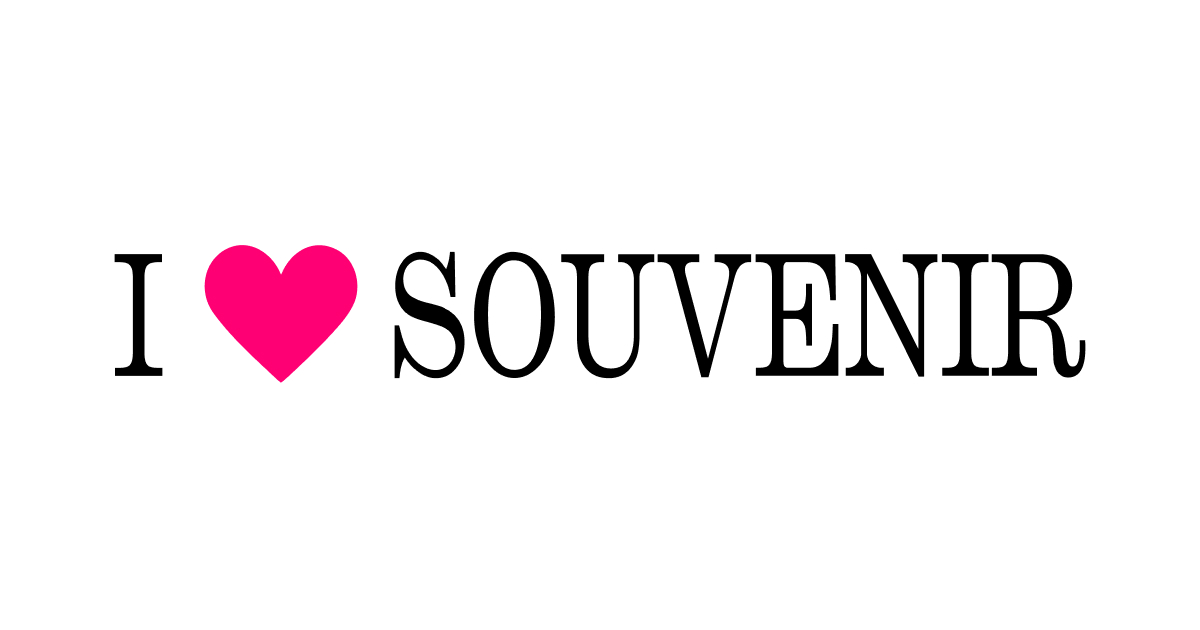
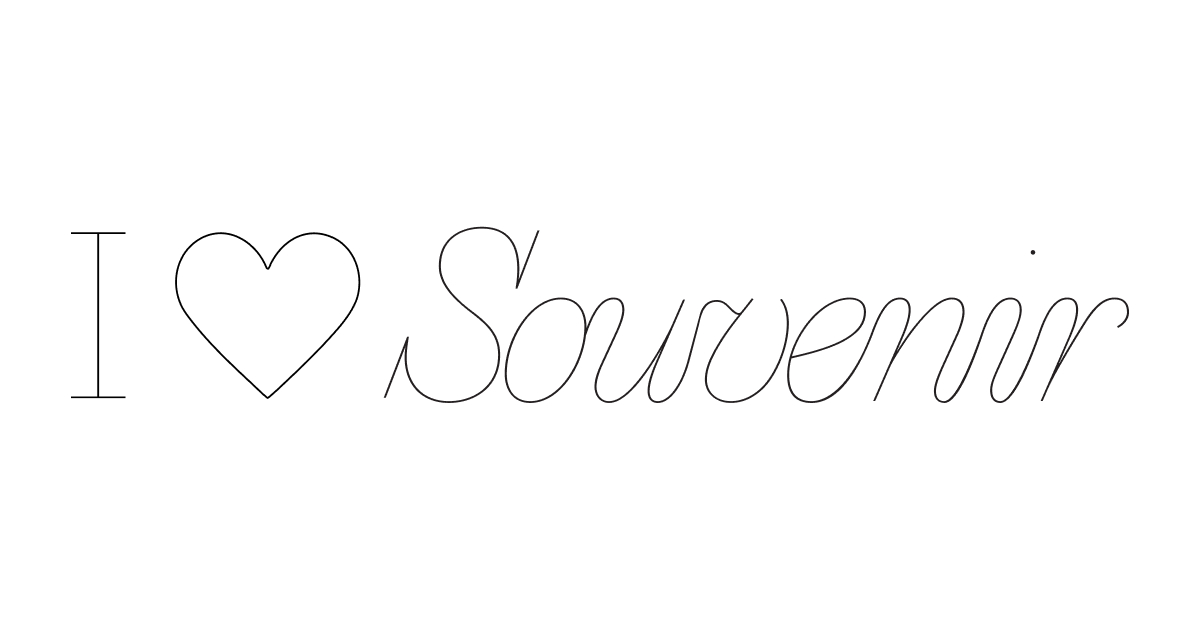
style: Updates

Changed region(s): [[0.0925, 0.3619, 0.925, 0.6333], [0.0617, 0.6032, 0.0925, 0.6333], [0.0617, 0.3619, 0.0925, 0.3921]]

diff --git a/frontend/components/svgs/Logo/Logo.tsx b/frontend/components/svgs/Logo/Logo.tsx
@@ -1,71 +1,73 @@
 const Logo = () => {
   return (
     <svg
-      width="97"
-      height="15"
-      viewBox="0 0 97 15"
+      width="126"
+      height="30"
+      viewBox="0 0 126 30"
       fill="none"
       xmlns="http://www.w3.org/2000/svg"
     >
       <path
-        d="M4.896 11.6933C3.648 11.6933 2.6 11.2693 1.752 10.4213C0.904 9.56526 0.48 8.50126 0.48 7.22926C0.48 5.94926 0.904 4.88526 1.752 4.03726C2.608 3.18126 3.656 2.75326 4.896 2.75326C6.136 2.75326 7.18 3.18126 8.028 4.03726C8.876 4.88526 9.3 5.94926 9.3 7.22926C9.3 8.50926 8.876 9.57326 8.028 10.4213C7.18 11.2693 6.136 11.6933 4.896 11.6933ZM4.896 11.1053C5.952 11.1053 6.832 10.7373 7.536 10.0013C8.248 9.26526 8.604 8.34126 8.604 7.22926C8.604 6.11726 8.248 5.19326 7.536 4.45726C6.832 3.72126 5.952 3.35326 4.896 3.35326C3.832 3.35326 2.944 3.72126 2.232 4.45726C1.528 5.19326 1.176 6.11726 1.176 7.22926C1.176 8.34126 1.528 9.26526 2.232 10.0013C2.944 10.7373 3.832 11.1053 4.896 11.1053ZM4.932 9.89326C4.172 9.89326 3.552 9.64126 3.072 9.13726C2.6 8.62526 2.364 7.97726 2.364 7.19326C2.364 6.40126 2.6 5.74926 3.072 5.23726C3.544 4.72526 4.168 4.46926 4.944 4.46926C5.592 4.46926 6.116 4.64526 6.516 4.99726C6.916 5.34926 7.148 5.80526 7.212 6.36526H5.916C5.876 6.13326 5.768 5.94526 5.592 5.80126C5.424 5.65726 5.204 5.58526 4.932 5.58526C4.54 5.58526 4.24 5.73726 4.032 6.04126C3.824 6.33726 3.72 6.72126 3.72 7.19326C3.72 7.65726 3.832 8.04126 4.056 8.34526C4.28 8.64126 4.576 8.78926 4.944 8.78926C5.24 8.78926 5.476 8.70926 5.652 8.54926C5.828 8.38126 5.932 8.16926 5.964 7.91326H7.26C7.22 8.46526 7.008 8.92926 6.624 9.30526C6.224 9.69726 5.66 9.89326 4.932 9.89326Z"
-        fill="var(--colour-black)"
+        d="M20.5554 7.9147C20.5554 4.48673 19.081 2.62843 15.9089 2.62843C13.2814 2.62843 10.5899 4.00616 10.5899 7.53084C10.5899 9.86971 12.5122 11.7593 14.6592 13.3944C16.7094 14.9313 18.3118 16.4058 18.3118 19.0645C18.3118 23.3569 14.9151 25.3447 11.6478 25.3447C8.1231 25.3447 5.88094 23.0058 5.88094 19.4171C5.88094 18.9366 5.91367 18.4887 6.00889 17.9115L3.41411 24.6722H3.1582L6.20231 16.7271H6.42697C6.23504 17.7523 6.13833 18.7774 6.13833 19.4186C6.13833 22.8466 8.25254 25.1215 11.6493 25.1215C14.8213 25.1215 18.0574 23.1992 18.0574 19.066C18.0574 16.4712 16.5189 15.1247 14.5327 13.5878C12.4185 11.9542 10.3355 10.0319 10.3355 7.53232C10.3355 3.91243 13.155 2.40674 15.9104 2.40674C19.3071 2.40674 20.8128 4.48971 20.8128 7.91767C20.8128 8.39824 20.7801 8.71813 20.7161 9.35938L23.183 2.88731H23.4389L20.5554 10.4485H20.3308C20.4915 9.51858 20.5554 8.68688 20.5554 7.91767V7.9147Z"
+        fill="var(--colour-white)"
+        stroke="var(--colour-white)"
+        strokeWidth="0.0743917"
       />
       <path
-        d="M12.0741 7.87633C12.1328 8.11403 12.1832 8.2923 12.2167 8.41114C12.2503 8.54187 12.2838 8.67261 12.3342 8.80334C12.4013 9.01726 12.4684 9.19553 12.5523 9.36192C12.6362 9.5283 12.7285 9.6828 12.8292 9.82542C13.0641 10.1701 13.341 10.4434 13.6598 10.6336C13.9786 10.8356 14.2974 10.9307 14.6162 10.9307C14.8092 10.9307 14.9938 10.895 15.1616 10.8118C15.3294 10.7405 15.4804 10.6336 15.6062 10.491C15.7321 10.3483 15.8328 10.182 15.8999 9.9918C15.967 9.80165 16.0089 9.59961 16.0089 9.3738C16.0089 9.13611 15.9586 8.9103 15.8747 8.70826C15.7908 8.51811 15.665 8.35172 15.5056 8.22099C15.43 8.17345 15.3545 8.11403 15.279 8.06649C15.1951 8.01895 15.1028 7.9833 14.9938 7.93576C14.8847 7.9001 14.7589 7.85256 14.6078 7.80503C14.4568 7.75749 14.2806 7.70995 14.0793 7.65053C13.6933 7.55545 13.3829 7.46037 13.148 7.36529C12.9131 7.27022 12.7369 7.17514 12.6278 7.06818C12.5607 7.03252 12.502 6.98498 12.4433 6.91368C12.3761 6.84237 12.309 6.77106 12.2335 6.67598C12.0825 6.45017 11.9734 6.22437 11.9063 5.98667C11.8392 5.74898 11.8056 5.48752 11.8056 5.17852C11.8056 4.84574 11.8476 4.53674 11.9399 4.25151C12.0238 3.96628 12.1496 3.72859 12.309 3.51466C12.46 3.30074 12.6446 3.14624 12.8627 3.02739C13.0809 2.90855 13.3158 2.84912 13.5675 2.84912C13.8528 2.84912 14.138 2.9442 14.44 3.11058C14.5239 3.17001 14.6078 3.22943 14.6833 3.27697C14.7505 3.32451 14.826 3.38393 14.8931 3.45524C14.9602 3.52655 15.0273 3.59786 15.1028 3.69293C15.17 3.78801 15.2539 3.90686 15.3545 4.0257C15.4972 3.68105 15.5895 3.28885 15.623 2.84912H15.9502L16.0006 5.93913H15.665C15.6314 5.77275 15.5978 5.63013 15.5727 5.51129C15.5391 5.39244 15.5139 5.27359 15.4804 5.17852C15.4468 5.08344 15.4049 4.98836 15.3629 4.89328C15.321 4.79821 15.2706 4.70313 15.2203 4.58428C14.7672 3.78801 14.2135 3.38393 13.5591 3.38393C13.3913 3.38393 13.2319 3.41959 13.0893 3.49089C12.9383 3.5622 12.8124 3.64539 12.7117 3.76424C12.6027 3.88309 12.5188 4.0257 12.46 4.19209C12.3929 4.35847 12.3677 4.52486 12.3677 4.71501C12.3677 5.3449 12.6278 5.78463 13.1564 6.02233C13.299 6.09363 13.4584 6.16494 13.643 6.22437C13.8276 6.28379 14.0625 6.34321 14.3478 6.40264C14.4988 6.45017 14.633 6.48583 14.7337 6.5096C14.8344 6.53337 14.9267 6.56902 15.0106 6.59279C15.0945 6.62844 15.17 6.6641 15.2539 6.71164C15.3294 6.75918 15.43 6.80671 15.5475 6.86614C15.7237 6.99687 15.8579 7.10383 15.9502 7.18702C16.0341 7.2821 16.1264 7.38906 16.2187 7.50791C16.4956 7.91199 16.6382 8.42303 16.6382 9.01726C16.6382 9.3738 16.5878 9.70657 16.4872 10.0037C16.3865 10.3127 16.2439 10.5742 16.0677 10.7881C15.8915 11.0139 15.6817 11.1922 15.4384 11.311C15.1867 11.4298 14.9267 11.4893 14.6414 11.4893C14.3897 11.4893 14.1464 11.4417 13.9115 11.3348C13.6682 11.2397 13.4333 11.0852 13.1983 10.8832C13.1312 10.8356 13.0641 10.7762 13.0138 10.7287C12.9634 10.6811 12.9047 10.6217 12.8544 10.5623C12.804 10.5028 12.7453 10.4315 12.6866 10.3602C12.6194 10.2889 12.5523 10.1938 12.4768 10.075C12.4181 10.1701 12.3677 10.2652 12.3342 10.3602C12.2922 10.4553 12.2587 10.5623 12.2335 10.6692C12.1999 10.7762 12.1748 10.895 12.158 11.0258C12.1328 11.1565 12.116 11.311 12.0993 11.4893H11.7637V7.87633H12.0741Z"
-        fill="var(--colour-black)"
+        d="M29.5545 15.4115C29.5545 19.9285 26.2872 25.3428 22.2492 25.3428C19.8791 25.3428 18.918 23.4844 18.918 21.5622C18.918 16.8517 22.3459 11.6294 26.2232 11.6294C28.5621 11.6294 29.5545 13.455 29.5545 15.41V15.4115ZM26.4791 22.8759C28.1768 20.9209 29.2986 18.0062 29.2986 15.4115C29.2986 13.4892 28.3687 11.8555 26.2232 11.8555C24.6536 11.8555 23.1791 12.7527 21.9948 14.0977C20.2972 16.0527 19.1754 18.9674 19.1754 21.5637C19.1754 23.4532 20.0725 25.1196 22.2507 25.1196C23.8204 25.1196 25.2948 24.2224 26.4791 22.8774V22.8759Z"
+        fill="var(--colour-white)"
+        stroke="var(--colour-white)"
+        strokeWidth="0.0743917"
       />
       <path
-        d="M20.0236 2.84912C20.4767 2.87289 20.8626 2.96797 21.1898 3.15812C21.517 3.34828 21.8191 3.64539 22.0959 4.03759C22.3812 4.46544 22.5909 4.94082 22.7252 5.46375C22.8594 5.99856 22.9349 6.61656 22.9349 7.31775C22.9349 7.91199 22.8594 8.45868 22.7168 8.95784C22.5742 9.46888 22.3812 9.90861 22.1295 10.277C21.8778 10.6573 21.5758 10.9426 21.2318 11.1565C20.8878 11.3704 20.5186 11.4774 20.1243 11.4774C19.7216 11.4774 19.3524 11.3704 19.0085 11.1565C18.6645 10.9426 18.3708 10.6336 18.1191 10.2533C17.8674 9.87296 17.6661 9.43322 17.5235 8.9103C17.3724 8.39926 17.3053 7.84068 17.3053 7.24645C17.3053 6.41452 17.4144 5.66579 17.6409 5.02401C17.859 4.38224 18.1946 3.85932 18.6309 3.45524C18.8323 3.26508 19.0504 3.12247 19.2937 3.01551C19.5286 2.90855 19.7719 2.84912 20.0236 2.84912ZM20.0824 3.43147C19.4951 3.43147 19.0504 3.75236 18.74 4.38224C18.4296 5.01213 18.2785 5.91536 18.2785 7.09195C18.2785 8.35172 18.4296 9.30249 18.7484 9.94427C19.0588 10.5979 19.5202 10.9188 20.1243 10.9188C20.7284 10.9188 21.1898 10.5979 21.5002 9.95615C21.8107 9.31438 21.9701 8.37549 21.9701 7.13948C21.9701 5.92725 21.8023 5.01213 21.4835 4.38224C21.1647 3.75236 20.6948 3.43147 20.0824 3.43147Z"
-        fill="var(--colour-black)"
+        d="M38.6612 19.8953L39.4616 18.0697C36.4503 23.356 34.1754 25.3422 32.509 25.3422C31.292 25.3422 30.618 24.3484 30.618 23.228C30.618 22.2669 31.0018 21.273 31.3872 20.4086L33.3422 16.1802C33.854 15.0583 34.2394 13.9692 34.2394 13.2328C34.2394 12.3044 33.854 11.855 33.1175 11.855C31.6758 11.855 30.554 13.3607 29.4649 16.6607L29.2402 16.564C30.3621 13.1673 31.5464 11.6304 33.116 11.6304C33.9805 11.6304 34.4938 12.1749 34.4938 13.2328C34.4938 14.0972 34.0772 15.1238 33.5639 16.2769L31.6089 20.5068C31.2562 21.3072 30.8724 22.3963 30.8724 23.2295C30.8724 24.2234 31.4169 25.1206 32.506 25.1206C33.6918 25.1206 34.9089 24.0627 36.0947 22.6537C38.2089 20.1542 40.1952 16.3423 40.7085 15.1878L42.1502 11.8878H42.4061L38.8814 19.9622C38.1449 21.6599 37.7923 22.9424 37.7923 23.7756C37.7923 24.8007 38.2729 25.1206 38.8501 25.1206C40.4525 25.1206 42.0535 22.5898 42.781 19.6915L43.0057 19.7882C42.2469 22.7177 40.646 25.3452 38.8516 25.3452C38.0512 25.3452 37.5379 24.8334 37.5379 23.7756C37.5379 22.8457 37.8905 21.6286 38.6597 19.8983L38.6612 19.8953Z"
+        fill="var(--colour-white)"
+        stroke="var(--colour-white)"
+        strokeWidth="0.0743917"
       />
       <path
-        d="M23.3817 3.01551H26.3769V3.55032H26.2007C26.0161 3.55032 25.8651 3.57409 25.7476 3.60974C25.6302 3.64539 25.5295 3.70482 25.4624 3.78801C25.3952 3.8712 25.3449 3.97816 25.3197 4.12078C25.2862 4.2634 25.2778 4.44167 25.2778 4.65559V8.54187C25.2778 9.29061 25.412 9.86107 25.6805 10.2414C25.949 10.6336 26.3433 10.8237 26.8551 10.8237C27.3753 10.8237 27.7696 10.6336 28.0381 10.2414C28.3065 9.84919 28.4492 9.27872 28.4492 8.52999V4.78632C28.4492 4.40601 28.3653 4.09701 28.2059 3.88309C28.0381 3.66916 27.8115 3.55032 27.5263 3.55032H27.3501V3.01551H29.8671V3.55032H29.716C29.5986 3.55032 29.4811 3.58597 29.3804 3.63351C29.2714 3.69293 29.1791 3.76424 29.0952 3.85932C29.0113 3.9544 28.9526 4.06136 28.9106 4.1802C28.8603 4.29905 28.8435 4.42978 28.8435 4.5724V8.48245C28.8435 8.93407 28.8099 9.32626 28.7428 9.6828C28.6757 10.0393 28.5247 10.3721 28.3065 10.6811C27.9122 11.2278 27.3836 11.4893 26.7125 11.4893C25.9406 11.4893 25.3701 11.2159 24.9841 10.6692C24.8919 10.5504 24.8163 10.4197 24.7576 10.2889C24.6905 10.1582 24.6402 10.0156 24.6066 9.86107C24.5647 9.70657 24.5311 9.5283 24.5143 9.33815C24.4975 9.14799 24.4808 8.93407 24.4808 8.67261V4.65559C24.4808 4.44167 24.464 4.2634 24.4388 4.12078C24.4052 3.97816 24.3549 3.8712 24.2878 3.78801C24.2207 3.70482 24.1284 3.64539 24.0109 3.60974C23.8935 3.57409 23.7424 3.55032 23.5579 3.55032H23.3817V3.01551Z"
-        fill="var(--colour-black)"
+        d="M50.0341 13.1033C50.5474 12.4621 50.8345 12.0782 51.1231 11.7256L51.3151 11.8535C50.1293 13.392 48.4644 15.2815 47.1179 17.4612C46.1895 18.9669 45.2596 20.6645 45.2596 22.2981C45.2596 23.9318 46.4454 25.1176 48.3989 25.1176C50.2245 25.1176 52.0516 24.0597 53.3326 22.2014C54.7743 20.1185 55.6715 17.3317 55.6715 14.9601C55.6715 13.6151 55.3501 12.6213 54.807 11.916L54.999 11.7881C55.5435 12.4933 55.9288 13.5184 55.9288 14.9601C55.9288 17.3942 54.9677 20.2791 53.526 22.3606C52.2762 24.1549 50.3867 25.3407 48.4004 25.3407C46.4142 25.3407 45.0037 24.091 45.0037 22.2966C45.0037 20.599 45.9336 18.9327 46.8947 17.363C47.6639 16.1132 48.5923 14.8962 49.4255 13.871C48.881 13.871 48.3677 13.2625 47.9511 12.8459C47.4705 12.3654 47.0867 12.1734 46.5421 12.1734C45.517 12.1734 44.7002 12.7388 44.2523 15.0464L42.9668 19.9593H42.7109L44.3967 13.6151C44.9174 12.1824 45.8384 11.9488 46.5436 11.9488C47.1194 11.9488 47.5687 12.1407 48.1133 12.6852C48.5626 13.1331 49.0432 13.6464 49.427 13.6464C49.5877 13.6464 49.6829 13.5497 50.0355 13.1018L50.0341 13.1033Z"
+        fill="var(--colour-white)"
+        stroke="var(--colour-white)"
+        strokeWidth="0.0743917"
       />
       <path
-        d="M33.0049 3.01551V3.55032H32.5938C32.2079 3.55032 32.0149 3.7167 32.0149 4.03759C32.0149 4.1089 32.0149 4.1802 32.0317 4.27528C32.0485 4.37036 32.0737 4.47732 32.1072 4.58428L33.6174 10.1582L34.9765 5.07155C35.0521 4.76255 35.094 4.51297 35.094 4.29905C35.094 4.04947 35.0185 3.85932 34.8675 3.74047C34.7165 3.62162 34.4899 3.55032 34.1711 3.55032H34.0788V3.01551H36.6294V3.55032H36.5035C36.235 3.55032 36.0253 3.64539 35.8575 3.82366C35.6897 4.00193 35.5554 4.28717 35.4548 4.66748L33.6509 11.4298H33.1559L31.2011 4.27528C31.1508 4.13267 31.1088 4.01382 31.0585 3.91874C31.0081 3.82366 30.9494 3.75236 30.8739 3.70482C30.7984 3.65728 30.7061 3.60974 30.6054 3.58597C30.5047 3.5622 30.3789 3.55032 30.2279 3.55032H30.102V3.01551H33.0049Z"
-        fill="var(--colour-black)"
+        d="M64.5614 16.3081C62.6064 18.0057 59.2424 18.8389 56.2638 19.5441C56.0718 20.2806 55.9751 21.0171 55.9751 21.7223C55.9751 23.6773 56.7116 25.119 58.8913 25.119C61.071 25.119 64.2088 22.6894 66.5432 16.5655L66.7679 16.6622C64.1924 23.3559 61.2956 25.3452 58.8928 25.3452C56.4899 25.3452 55.7207 23.8082 55.7207 21.7253C55.7207 17.2082 59.7899 11.6333 63.8577 11.6333C65.1402 11.6333 65.9719 12.2746 65.9719 13.4916C65.9719 14.6134 65.4586 15.5746 64.5614 16.311V16.3081ZM56.3277 19.2867C58.9865 18.6782 62.4784 17.8138 64.4022 16.1474C65.2354 15.4109 65.716 14.545 65.716 13.4886C65.716 12.4323 65.0747 11.855 63.8577 11.855C60.5264 11.855 57.2904 15.7635 56.3292 19.2882L56.3277 19.2867Z"
+        fill="var(--colour-white)"
+        stroke="var(--colour-white)"
+        strokeWidth="0.0743917"
       />
       <path
-        d="M36.9398 3.01551H42.4939L42.5359 6.16494H42.1416C42.108 5.23794 41.957 4.56051 41.6801 4.13267C41.5459 3.93063 41.3781 3.78801 41.1767 3.69293C40.9754 3.59786 40.7153 3.55032 40.4049 3.55032H39.1464C39.0625 3.55032 39.0038 3.58597 38.9534 3.65728C38.9031 3.72859 38.8779 3.82366 38.8779 3.94251V6.86614H39.7085C39.9854 6.86614 40.1783 6.77106 40.2874 6.58091C40.3965 6.39075 40.4552 6.03421 40.4552 5.53506V5.0359H40.8663V9.26684H40.472C40.472 9.01726 40.4636 8.80334 40.4552 8.63695C40.4468 8.47057 40.4384 8.31607 40.4216 8.19722C40.4049 8.07837 40.3797 7.9833 40.3545 7.9001C40.321 7.8288 40.2874 7.75749 40.2455 7.68618C40.128 7.51979 39.9602 7.4366 39.7505 7.4366H38.8779V10.3365C38.8779 10.6336 38.9702 10.7762 39.1715 10.7762H40.6985C41.4033 10.7762 41.8899 10.3365 42.1416 9.44511C42.2003 9.23118 42.2422 9.00538 42.2674 8.76768C42.2926 8.52999 42.3094 8.19722 42.3178 7.78126H42.7121V11.3229H36.9566V10.7762H37.158C37.3426 10.7762 37.4936 10.7643 37.611 10.7287C37.7285 10.7049 37.8208 10.6455 37.8879 10.5623C37.955 10.4791 38.0054 10.3721 38.0389 10.2295C38.0641 10.0869 38.0809 9.90861 38.0809 9.6828V4.65559C38.0809 4.44167 38.0641 4.2634 38.0389 4.12078C38.0054 3.97816 37.955 3.8712 37.8879 3.78801C37.8208 3.70482 37.7285 3.64539 37.611 3.60974C37.4936 3.57409 37.3426 3.55032 37.158 3.55032H36.9398V3.01551Z"
-        fill="var(--colour-black)"
+        d="M71.7965 13.2318C71.7965 14.1617 71.4127 15.4427 70.7074 17.0124L69.907 18.8379C70.9321 17.1403 71.7013 16.0497 72.5345 15.0574C74.2008 13.0384 75.7705 11.6294 77.1482 11.6294C78.2061 11.6294 78.8146 12.2379 78.8146 13.5204C78.8146 14.4176 78.3341 15.6674 78.0454 16.3399L75.9952 20.8569C75.5146 21.9788 75.098 23.0351 75.098 23.7731C75.098 24.7982 75.5786 25.1181 76.1559 25.1181C77.7583 25.1181 79.9439 19.2873 80.9169 16.5318L81.1416 16.6285C80.1224 19.6146 77.9978 25.4588 76.1559 25.3428C75.3569 25.2922 74.8421 24.8309 74.8421 23.7731C74.8421 22.9726 75.2899 21.8508 75.772 20.7617L77.8222 16.2447C78.1749 15.4442 78.5587 14.1944 78.5587 13.5219C78.5587 12.3688 78.0454 11.8555 77.1482 11.8555C75.8345 11.8555 74.2321 13.33 72.6952 15.2195C71.1895 17.0451 69.5231 19.7693 69.1705 20.5385L67.1842 25.0883H66.9283L70.453 17.0139C71.1895 15.3162 71.5421 14.1304 71.5421 13.2333C71.5421 12.3361 71.1567 11.8555 70.4203 11.8555C68.9786 11.8555 67.9624 13.327 66.7676 16.6612L66.543 16.5645C67.7823 13.1291 68.8491 11.6309 70.4203 11.6309C71.2847 11.6309 71.798 12.1754 71.798 13.2333L71.7965 13.2318Z"
+        fill="var(--colour-white)"
+        stroke="var(--colour-white)"
+        strokeWidth="0.0743917"
       />
       <path
-        d="M44.9878 3.00362L48.2683 9.45699H48.285V4.71501C48.285 4.34659 48.1928 4.06136 48.025 3.85932C47.8572 3.65728 47.6222 3.55032 47.3202 3.55032H47.2028V3.01551H49.6106V3.55032H49.5351C49.3002 3.55032 49.0989 3.64539 48.9311 3.83555C48.7633 4.0257 48.6878 4.23963 48.6878 4.50109V11.3823H48.3102L44.7194 4.32282H44.7026V9.78976C44.7026 9.93238 44.7277 10.0512 44.7781 10.1701C44.8284 10.2889 44.9039 10.3959 44.9962 10.491C45.0885 10.586 45.1976 10.6573 45.3234 10.7049C45.4409 10.7524 45.5751 10.7762 45.7094 10.7762H45.8855V11.3229H43.226V10.7762H43.3602C43.486 10.7762 43.6035 10.7524 43.721 10.693C43.8384 10.6455 43.9391 10.5742 44.023 10.4791C44.1069 10.384 44.174 10.277 44.2243 10.1582C44.2747 10.0393 44.2999 9.90861 44.2999 9.766V4.67936C44.2999 4.32282 44.2076 4.04947 44.0314 3.84743C43.8468 3.65728 43.5951 3.55032 43.2595 3.55032H43.184V3.00362H44.9878Z"
-        fill="var(--colour-black)"
+        d="M83.3174 20.8588C82.8056 21.9806 82.4202 22.909 82.4202 23.6782C82.4202 24.736 82.9008 25.1199 83.4781 25.1199C85.0805 25.1199 87.4149 19.1909 88.3596 16.5664L88.5843 16.6631C87.6232 19.3486 85.3795 25.3461 83.4781 25.3461C82.6776 25.3461 82.1643 24.7703 82.1643 23.6797C82.1643 22.8465 82.6121 21.8541 83.0942 20.7635L84.8246 16.919C85.5938 15.2214 86.0104 14.1962 86.0104 13.2351C86.0104 12.274 85.561 11.8574 84.8246 11.8574C83.3828 11.8574 82.2298 13.3318 81.1407 16.6318L80.916 16.5351C82.0378 13.1384 83.2549 11.6327 84.8246 11.6327C85.689 11.6327 86.2663 12.2085 86.2663 13.2351C86.2663 14.1962 85.753 15.446 85.0492 17.0157L83.3189 20.8602L83.3174 20.8588ZM87.4506 5.73493C87.4506 5.57424 87.5785 5.44629 87.7392 5.44629C87.8999 5.44629 88.0279 5.57424 88.0279 5.73493C88.0279 5.89561 87.8999 6.02357 87.7392 6.02357C87.5785 6.02357 87.4506 5.89561 87.4506 5.73493Z"
+        fill="var(--colour-white)"
+        stroke="var(--colour-white)"
+        strokeWidth="0.0743917"
       />
       <path
-        d="M49.9295 3.00362H53.1764V3.55032H52.8912C52.7066 3.55032 52.5639 3.57409 52.4465 3.60974C52.329 3.64539 52.2284 3.70482 52.1612 3.78801C52.0941 3.8712 52.0438 3.97816 52.0186 4.12078C51.9851 4.2634 51.9767 4.44167 51.9767 4.65559V9.6828C51.9767 9.89673 51.9851 10.075 52.0186 10.2176C52.0438 10.3602 52.0941 10.4791 52.1612 10.5623C52.2284 10.6455 52.329 10.7049 52.4465 10.7287C52.5639 10.7643 52.7234 10.7762 52.9079 10.7762H53.2016V11.3229H49.9547V10.7762H50.2483C50.4329 10.7762 50.5839 10.7643 50.7014 10.7287C50.8189 10.7049 50.9195 10.6455 50.9867 10.5623C51.0538 10.4791 51.1041 10.3602 51.1377 10.2176C51.1628 10.075 51.1796 9.89673 51.1796 9.6828V4.65559C51.1796 4.44167 51.1628 4.25151 51.1377 4.1089C51.1041 3.96628 51.0538 3.85932 50.9867 3.77612C50.9195 3.69293 50.8189 3.63351 50.7014 3.59786C50.5839 3.57409 50.4329 3.55032 50.2483 3.55032H49.9295V3.00362Z"
-        fill="var(--colour-black)"
+        d="M98.7092 15.3475C99.5097 14.9636 99.9902 14.1944 99.9902 13.5219C99.9902 12.4641 99.4784 11.8555 98.3566 11.8555C97.2348 11.8555 96.1129 12.5608 94.6073 14.9309C93.5494 16.5973 90.538 21.4982 89.6096 23.6779L89.0011 25.0868H88.7452L92.2699 17.0124C93.0063 15.3148 93.359 14.065 93.359 13.1991C93.359 12.2707 92.9736 11.8541 92.2059 11.8541C90.8282 11.8541 89.6751 13.3285 88.586 16.6598L88.3613 16.5631C89.4504 13.2303 90.6675 11.6294 92.2059 11.6294C93.167 11.6294 93.6149 12.2052 93.6149 13.1991C93.6149 14.1929 93.231 15.41 92.493 17.0764L90.9546 20.601C91.7238 19.1593 93.2295 16.6598 94.4153 14.7702C95.921 12.3674 97.1068 11.6309 98.3566 11.6309C99.5424 11.6309 100.246 12.3034 100.246 13.5219C100.246 14.2911 99.7656 15.0916 98.8044 15.5722L98.7077 15.3475H98.7092Z"
+        fill="var(--colour-white)"
+        stroke="var(--colour-white)"
+        strokeWidth="0.0743917"
       />
       <path
-        d="M56.5596 6.90179C57.0713 6.90179 57.4489 6.77106 57.6838 6.49771C57.9187 6.23625 58.0446 5.79652 58.0446 5.20228C58.0446 4.97648 58.011 4.76255 57.9607 4.54863C57.9019 4.34659 57.8264 4.1802 57.7257 4.03759C57.6586 3.9544 57.5915 3.88309 57.5244 3.81178C57.4489 3.75236 57.365 3.70482 57.2643 3.66916C57.1636 3.63351 57.0462 3.60974 56.9119 3.58597C56.7777 3.5622 56.6267 3.55032 56.4421 3.55032H55.7374C55.4689 3.55032 55.343 3.69293 55.343 3.9544V6.90179H56.5596ZM56.5596 11.3229H53.4134V10.7762H53.6231C53.8077 10.7762 53.9587 10.7643 54.0762 10.7287C54.1936 10.7049 54.2859 10.6455 54.353 10.5623C54.4201 10.4791 54.4705 10.3602 54.504 10.2176C54.5292 10.075 54.546 9.89673 54.546 9.6828V4.65559C54.546 4.44167 54.5292 4.2634 54.504 4.12078C54.4705 3.97816 54.4201 3.8712 54.353 3.78801C54.2859 3.70482 54.1936 3.64539 54.0762 3.60974C53.9587 3.57409 53.8077 3.55032 53.6231 3.55032H53.405V3.01551H56.8532C57.1552 3.01551 57.4405 3.07493 57.709 3.18189C57.9691 3.28885 58.1956 3.43147 58.3886 3.62162C58.5815 3.81178 58.7325 4.03759 58.8416 4.29905C58.9507 4.56051 59.0094 4.83386 59.0094 5.14286C59.0094 5.51129 58.9339 5.84406 58.7997 6.12929C58.657 6.4264 58.4557 6.67598 58.1872 6.86614C58.053 6.96122 57.9271 7.04441 57.8013 7.09195C57.6754 7.13948 57.4992 7.18702 57.2643 7.23456V7.25833C57.6586 7.42472 57.9607 7.69806 58.162 8.07837C58.3634 8.45868 58.506 9.00538 58.5731 9.71846C58.6067 10.075 58.657 10.3246 58.7325 10.4672C58.7997 10.6217 58.9087 10.693 59.043 10.693C59.2191 10.693 59.345 10.5979 59.4289 10.384C59.5044 10.1701 59.5464 9.82542 59.5464 9.33815V9.19553C59.5464 9.13611 59.538 9.04103 59.538 8.89841H59.9155C59.9239 9.01726 59.9323 9.12422 59.9323 9.2193V9.50453C59.9323 10.1463 59.8232 10.6217 59.6219 10.9545C59.4205 11.2872 59.1185 11.4417 58.7325 11.4417C58.5144 11.4417 58.3298 11.3823 58.1704 11.2516C58.011 11.1327 57.8935 10.9545 57.818 10.7168C57.7845 10.6455 57.7677 10.586 57.7509 10.5266C57.7341 10.4791 57.7257 10.4078 57.7174 10.3365C57.709 10.2652 57.7006 10.1701 57.7006 10.0512C57.6922 9.94427 57.6838 9.78976 57.6838 9.59961C57.667 9.31438 57.6502 9.0648 57.6335 8.86276C57.6167 8.66072 57.5915 8.49434 57.558 8.35172C57.5244 8.2091 57.4741 8.10214 57.4237 8.00706C57.3734 7.91199 57.3063 7.8288 57.2308 7.75749C57.1636 7.70995 57.0965 7.66241 57.0294 7.61487C56.9623 7.57922 56.8784 7.54356 56.7861 7.51979C56.6854 7.49602 56.5763 7.48414 56.4505 7.47226C56.3162 7.46037 56.1652 7.44849 55.989 7.44849H55.343V9.6828C55.343 9.89673 55.3514 10.075 55.385 10.2176C55.4101 10.3602 55.4605 10.4791 55.536 10.5623C55.6031 10.6455 55.7038 10.7049 55.8213 10.7287C55.9387 10.7643 56.0897 10.7762 56.2743 10.7762H56.5596V11.3229Z"
-        fill="var(--colour-black)"
+        d="M122.819 16.0316C122.819 23.1836 117.875 26.7588 112.9 26.7588C106.96 26.7588 102.793 22.0007 102.793 16.3425C102.793 9.1905 107.737 5.61523 112.712 5.61523C118.652 5.61523 122.819 10.3733 122.819 16.0316ZM103.043 16.3425C103.043 21.7538 107.023 26.5416 112.9 26.5416C118.341 26.5416 122.571 22.4992 122.571 16.0316C122.571 10.5593 118.591 5.83246 112.714 5.83246C107.273 5.83246 103.043 9.8749 103.043 16.3425Z"
+        fill="var(--colour-white)"
+        stroke="var(--colour-white)"
+        strokeWidth="0.0743917"
+        strokeMiterlimit="10"
       />
       <path
-        d="M62.8354 7.87633C62.8942 8.11403 62.9445 8.2923 62.9781 8.41114C63.0116 8.54187 63.0452 8.67261 63.0955 8.80334C63.1627 9.01726 63.2298 9.19553 63.3137 9.36192C63.3976 9.5283 63.4899 9.6828 63.5905 9.82542C63.8255 10.1701 64.1023 10.4434 64.4211 10.6336C64.7399 10.8356 65.0588 10.9307 65.3776 10.9307C65.5705 10.9307 65.7551 10.895 65.9229 10.8118C66.0907 10.7405 66.2417 10.6336 66.3676 10.491C66.4934 10.3483 66.5941 10.182 66.6612 9.9918C66.7283 9.80165 66.7703 9.59961 66.7703 9.3738C66.7703 9.13611 66.72 8.9103 66.6361 8.70826C66.5522 8.51811 66.4263 8.35172 66.2669 8.22099C66.1914 8.17345 66.1159 8.11403 66.0404 8.06649C65.9565 8.01895 65.8642 7.9833 65.7551 7.93576C65.646 7.9001 65.5202 7.85256 65.3692 7.80503C65.2182 7.75749 65.042 7.70995 64.8406 7.65053C64.4547 7.55545 64.1443 7.46037 63.9093 7.36529C63.6744 7.27022 63.4982 7.17514 63.3892 7.06818C63.3221 7.03252 63.2633 6.98498 63.2046 6.91368C63.1375 6.84237 63.0704 6.77106 62.9949 6.67598C62.8438 6.45017 62.7348 6.22437 62.6676 5.98667C62.6005 5.74898 62.567 5.48752 62.567 5.17852C62.567 4.84574 62.6089 4.53674 62.7012 4.25151C62.7851 3.96628 62.9109 3.72859 63.0704 3.51466C63.2214 3.30074 63.406 3.14624 63.6241 3.02739C63.8422 2.90855 64.0771 2.84912 64.3288 2.84912C64.6141 2.84912 64.8993 2.9442 65.2014 3.11058C65.2853 3.17001 65.3692 3.22943 65.4447 3.27697C65.5118 3.32451 65.5873 3.38393 65.6544 3.45524C65.7216 3.52655 65.7887 3.59786 65.8642 3.69293C65.9313 3.78801 66.0152 3.90686 66.1159 4.0257C66.2585 3.68105 66.3508 3.28885 66.3844 2.84912H66.7116L66.7619 5.93913H66.4263C66.3928 5.77275 66.3592 5.63013 66.334 5.51129C66.3005 5.39244 66.2753 5.27359 66.2417 5.17852C66.2082 5.08344 66.1662 4.98836 66.1243 4.89328C66.0823 4.79821 66.032 4.70313 65.9816 4.58428C65.5286 3.78801 64.9749 3.38393 64.3204 3.38393C64.1527 3.38393 63.9932 3.41959 63.8506 3.49089C63.6996 3.5622 63.5737 3.64539 63.4731 3.76424C63.364 3.88309 63.2801 4.0257 63.2214 4.19209C63.1543 4.35847 63.1291 4.52486 63.1291 4.71501C63.1291 5.3449 63.3892 5.78463 63.9177 6.02233C64.0604 6.09363 64.2198 6.16494 64.4044 6.22437C64.5889 6.28379 64.8238 6.34321 65.1091 6.40264C65.2601 6.45017 65.3944 6.48583 65.495 6.5096C65.5957 6.53337 65.688 6.56902 65.7719 6.59279C65.8558 6.62844 65.9313 6.6641 66.0152 6.71164C66.0907 6.75918 66.1914 6.80671 66.3089 6.86614C66.485 6.99687 66.6193 7.10383 66.7116 7.18702C66.7955 7.2821 66.8878 7.38906 66.98 7.50791C67.2569 7.91199 67.3995 8.42303 67.3995 9.01726C67.3995 9.3738 67.3492 9.70657 67.2485 10.0037C67.1478 10.3127 67.0052 10.5742 66.829 10.7881C66.6528 11.0139 66.4431 11.1922 66.1998 11.311C65.9481 11.4298 65.688 11.4893 65.4027 11.4893C65.1511 11.4893 64.9077 11.4417 64.6728 11.3348C64.4295 11.2397 64.1946 11.0852 63.9597 10.8832C63.8926 10.8356 63.8254 10.7762 63.7751 10.7287C63.7248 10.6811 63.666 10.6217 63.6157 10.5623C63.5654 10.5028 63.5066 10.4315 63.4479 10.3602C63.3808 10.2889 63.3137 10.1938 63.2382 10.075C63.1794 10.1701 63.1291 10.2652 63.0955 10.3602C63.0536 10.4553 63.02 10.5623 62.9949 10.6692C62.9613 10.7762 62.9361 10.895 62.9193 11.0258C62.8942 11.1565 62.8774 11.311 62.8606 11.4893H62.525V7.87633H62.8354Z"
-        fill="var(--colour-black)"
-      />
-      <path
-        d="M72.5804 11.3229H69.1657V10.7762H69.5684C69.753 10.7762 69.904 10.7643 70.0215 10.7287C70.139 10.7049 70.2312 10.6455 70.2984 10.5623C70.3655 10.4791 70.4158 10.3602 70.4494 10.2176C70.4746 10.075 70.4913 9.89673 70.4913 9.6828V4.16832C70.4913 3.93063 70.4494 3.76424 70.3823 3.68105C70.3068 3.59786 70.1725 3.55032 69.9712 3.55032C69.795 3.55032 69.6523 3.5622 69.5517 3.58597C69.4426 3.60974 69.3503 3.63351 69.2664 3.68105C68.9812 3.82366 68.7714 4.1089 68.6288 4.52486C68.5281 4.81009 68.4526 5.10721 68.4023 5.43998C68.3519 5.77275 68.3184 6.1174 68.3184 6.47394H67.9156V3.00362H73.8305V6.48583H73.4362C73.4278 6.34321 73.4194 6.21248 73.411 6.09363C73.4026 5.98667 73.3942 5.8916 73.3858 5.79652C73.3775 5.70144 73.3691 5.61825 73.3523 5.52317C73.3355 5.43998 73.3271 5.3449 73.3103 5.23794C73.26 4.98836 73.2097 4.77444 73.1509 4.59617C73.0838 4.4179 73.0083 4.25151 72.9244 4.1089C72.7902 3.90686 72.6391 3.76424 72.4797 3.68105C72.3119 3.59786 72.0938 3.55032 71.8169 3.55032C71.5988 3.55032 71.4646 3.58597 71.3974 3.64539C71.3303 3.7167 71.2884 3.84743 71.2884 4.03759V9.6828C71.2884 9.89673 71.2968 10.075 71.3303 10.2176C71.3555 10.3602 71.4058 10.4791 71.4729 10.5623C71.5401 10.6455 71.6407 10.7049 71.7582 10.7287C71.8757 10.7643 72.0351 10.7762 72.2197 10.7762H72.5804V11.3229Z"
-        fill="var(--colour-black)"
-      />
-      <path
-        d="M74.143 3.01551H77.1382V3.55032H76.962C76.7774 3.55032 76.6264 3.57409 76.509 3.60974C76.3915 3.64539 76.2908 3.70482 76.2237 3.78801C76.1566 3.8712 76.1063 3.97816 76.0811 4.12078C76.0475 4.2634 76.0391 4.44167 76.0391 4.65559V8.54187C76.0391 9.29061 76.1734 9.86107 76.4418 10.2414C76.7103 10.6336 77.1047 10.8237 77.6164 10.8237C78.1366 10.8237 78.5309 10.6336 78.7994 10.2414C79.0679 9.84919 79.2105 9.27872 79.2105 8.52999V4.78632C79.2105 4.40601 79.1266 4.09701 78.9672 3.88309C78.7994 3.66916 78.5729 3.55032 78.2876 3.55032H78.1114V3.01551H80.6284V3.55032H80.4774C80.3599 3.55032 80.2425 3.58597 80.1418 3.63351C80.0327 3.69293 79.9404 3.76424 79.8565 3.85932C79.7726 3.9544 79.7139 4.06136 79.672 4.1802C79.6216 4.29905 79.6048 4.42978 79.6048 4.5724V8.48245C79.6048 8.93407 79.5713 9.32626 79.5042 9.6828C79.437 10.0393 79.286 10.3721 79.0679 10.6811C78.6736 11.2278 78.145 11.4893 77.4738 11.4893C76.7019 11.4893 76.1314 11.2159 75.7455 10.6692C75.6532 10.5504 75.5777 10.4197 75.519 10.2889C75.4518 10.1582 75.4015 10.0156 75.3679 9.86107C75.326 9.70657 75.2924 9.5283 75.2757 9.33815C75.2589 9.14799 75.2421 8.93407 75.2421 8.67261V4.65559C75.2421 4.44167 75.2253 4.2634 75.2002 4.12078C75.1666 3.97816 75.1163 3.8712 75.0491 3.78801C74.982 3.70482 74.8897 3.64539 74.7723 3.60974C74.6548 3.57409 74.5038 3.55032 74.3192 3.55032H74.143V3.01551Z"
-        fill="var(--colour-black)"
-      />
-      <path
-        d="M83.1454 3.58597C82.9692 3.58597 82.8853 3.69293 82.8853 3.88309V10.0988C82.8853 10.3602 82.9021 10.5266 82.9441 10.6217C82.9776 10.7168 83.0531 10.7524 83.1706 10.7524H84.2109C84.857 10.7524 85.352 10.4672 85.6959 9.88484C86.0315 9.30249 86.2077 8.45868 86.2077 7.34152C86.2077 5.57071 85.8554 4.4179 85.1506 3.89497C85.0667 3.84743 84.9912 3.79989 84.9073 3.75236C84.8234 3.7167 84.7311 3.68105 84.6304 3.65728C84.5298 3.63351 84.4039 3.62162 84.2697 3.60974C84.1354 3.59786 83.9676 3.58597 83.7831 3.58597H83.1454ZM80.9389 10.7762H81.1654C81.35 10.7762 81.501 10.7643 81.6185 10.7287C81.7359 10.7049 81.8282 10.6455 81.8953 10.5623C81.9624 10.4791 82.0128 10.3602 82.0464 10.2176C82.0715 10.075 82.0883 9.89673 82.0883 9.6828V4.65559C82.0883 4.44167 82.0715 4.2634 82.0464 4.12078C82.0128 3.97816 81.9624 3.8712 81.8953 3.78801C81.8282 3.70482 81.7359 3.64539 81.6185 3.60974C81.501 3.57409 81.35 3.55032 81.1654 3.55032H80.9221V3.00362H84.0851C84.5465 3.00362 84.966 3.11058 85.3436 3.31262C85.7211 3.51466 86.0483 3.79989 86.3168 4.1802C86.5853 4.56051 86.7866 5.01213 86.9377 5.53506C87.0887 6.05798 87.1642 6.64033 87.1642 7.2821C87.1642 7.88822 87.0887 8.43491 86.946 8.93407C86.8034 9.43322 86.6021 9.84919 86.3504 10.2057C86.0987 10.5623 85.7882 10.8475 85.4275 11.0377C85.0667 11.2278 84.6724 11.3229 84.2361 11.3229H80.9389V10.7762Z"
-        fill="var(--colour-black)"
-      />
-      <path
-        d="M87.6508 3.00362H90.8977V3.55032H90.6125C90.4279 3.55032 90.2853 3.57409 90.1678 3.60974C90.0504 3.64539 89.9497 3.70482 89.8826 3.78801C89.8154 3.8712 89.7651 3.97816 89.7399 4.12078C89.7064 4.2634 89.698 4.44167 89.698 4.65559V9.6828C89.698 9.89673 89.7064 10.075 89.7399 10.2176C89.7651 10.3602 89.8154 10.4791 89.8826 10.5623C89.9497 10.6455 90.0504 10.7049 90.1678 10.7287C90.2853 10.7643 90.4447 10.7762 90.6293 10.7762H90.9229V11.3229H87.676V10.7762H87.9697C88.1542 10.7762 88.3053 10.7643 88.4227 10.7287C88.5402 10.7049 88.6409 10.6455 88.708 10.5623C88.7751 10.4791 88.8254 10.3602 88.859 10.2176C88.8842 10.075 88.9009 9.89673 88.9009 9.6828V4.65559C88.9009 4.44167 88.8842 4.25151 88.859 4.1089C88.8254 3.96628 88.7751 3.85932 88.708 3.77612C88.6409 3.69293 88.5402 3.63351 88.4227 3.59786C88.3053 3.57409 88.1542 3.55032 87.9697 3.55032H87.6508V3.00362Z"
-        fill="var(--colour-black)"
-      />
-      <path
-        d="M94.0711 2.84912C94.5242 2.87289 94.9101 2.96797 95.2373 3.15812C95.5645 3.34828 95.8666 3.64539 96.1434 4.03759C96.4287 4.46544 96.6384 4.94082 96.7727 5.46375C96.9069 5.99856 96.9824 6.61656 96.9824 7.31775C96.9824 7.91199 96.9069 8.45868 96.7643 8.95784C96.6217 9.46888 96.4287 9.90861 96.177 10.277C95.9253 10.6573 95.6233 10.9426 95.2793 11.1565C94.9353 11.3704 94.5661 11.4774 94.1718 11.4774C93.7691 11.4774 93.3999 11.3704 93.056 11.1565C92.712 10.9426 92.4183 10.6336 92.1666 10.2533C91.9149 9.87296 91.7136 9.43322 91.571 8.9103C91.4199 8.39926 91.3528 7.84068 91.3528 7.24645C91.3528 6.41452 91.4619 5.66579 91.6884 5.02401C91.9065 4.38224 92.2421 3.85932 92.6784 3.45524C92.8798 3.26508 93.0979 3.12247 93.3412 3.01551C93.5761 2.90855 93.8194 2.84912 94.0711 2.84912ZM94.1299 3.43147C93.5426 3.43147 93.0979 3.75236 92.7875 4.38224C92.4771 5.01213 92.326 5.91536 92.326 7.09195C92.326 8.35172 92.4771 9.30249 92.7959 9.94427C93.1063 10.5979 93.5677 10.9188 94.1718 10.9188C94.7759 10.9188 95.2373 10.5979 95.5478 9.95615C95.8582 9.31438 96.0176 8.37549 96.0176 7.13948C96.0176 5.92725 95.8498 5.01213 95.531 4.38224C95.2122 3.75236 94.7423 3.43147 94.1299 3.43147Z"
-        fill="var(--colour-black)"
+        d="M117.718 13.4327C117.718 14.2302 117.394 15.0276 116.744 15.5885L116.596 15.4413C117.217 14.8506 117.483 14.1409 117.483 13.4327C117.483 11.5119 115.562 10.5374 113.289 10.5374C110.069 10.5374 107.41 13.0786 107.41 16.6523C107.41 20.2261 109.508 22.7673 112.758 22.7673C115.504 22.7673 117.101 21.0831 117.898 18.9868L118.105 19.076C117.307 21.2617 115.564 22.9756 112.758 22.9756C109.391 22.9756 107.174 20.3764 107.174 16.6538C107.174 12.9313 109.95 10.332 113.289 10.332C115.711 10.332 117.72 11.4256 117.72 13.4342L117.718 13.4327Z"
+        fill="var(--colour-white)"
+        stroke="var(--colour-white)"
+        strokeWidth="0.0743917"
+        strokeMiterlimit="10"
       />
     </svg>
   );

diff --git a/frontend/components/blocks/LogoCell/LogoCell.tsx b/frontend/components/blocks/LogoCell/LogoCell.tsx
@@ -38,13 +38,13 @@ const LogoCellWrapper = styled(motion.div)<{ $isNearBottom: boolean }>`
   &:hover {
     button {
       color: ${(props) =>
-        props.$isNearBottom ? "var(--colour-white)" : "var(--colour-black)"};
+        props.$isNearBottom ? "var(--colour-white)" : "var(--colour-white)"};
     }
 
     svg {
       path {
         stroke: ${(props) =>
-          props.$isNearBottom ? "var(--colour-white)" : "var(--colour-black)"};
+          props.$isNearBottom ? "var(--colour-white)" : "var(--colour-white)"};
       }
     }
   }
@@ -57,7 +57,7 @@ const LogoCellWrapper = styled(motion.div)<{ $isNearBottom: boolean }>`
       color: ${(props) =>
         props.$isNearBottom
           ? "rgba(255, 255, 255, 0.5)"
-          : "var(--colour-black)"};
+          : "var(--colour-white)"};
     }
   }
 

diff --git a/frontend/styles/global.tsx b/frontend/styles/global.tsx
@@ -40,6 +40,7 @@ export const GlobalStyles = createGlobalStyle`
 	html {
 		background: #EBEBEB;
 		font-size: 16px;
+		color: var(--colour-white);
 
 		&.no-scroll {
 			overflow-y: hidden;
@@ -62,8 +63,12 @@ export const GlobalStyles = createGlobalStyle`
 	body {
 		font-family: var(--font-default);
 		font-weight: bold;
-		color: var(--colour-black);
+		color: var(--colour-white);
 		line-height: normal;
+	}
+
+	header {
+		mix-blend-mode: difference;
 	}
 
 	strong,
@@ -77,12 +82,11 @@ export const GlobalStyles = createGlobalStyle`
 
 	a {
 		text-decoration: none;
-		color: var(--colour-black);
+		color: var(--colour-white);
 
 		transition: all var(--transition-speed-default) var(--transition-ease);
 
 		&:hover {
-			color: var(--colour-blue);
 			text-decoration: underline;
 		}
 	}

diff --git a/frontend/pages/_app.tsx b/frontend/pages/_app.tsx
@@ -9,7 +9,6 @@ import { GlobalStyles } from "../styles/global";
 import use1vh from "../hooks/use1vh";
 import { TransitionsType } from "../shared/types/types";
 import useHeaderHeight from "../hooks/useHeaderHeight";
-import Cursor from "../components/elements/Cursor";
 
 const pageTransitionVariants: TransitionsType = {
   hidden: { opacity: 0, transition: { duration: 0.3 } },
@@ -64,10 +63,10 @@ const App = (props: Props) => {
               pageTransitionVariants={pageTransitionVariants}
             />
           </AnimatePresence>
-          <Cursor
+          {/* <Cursor
             cursorRefresh={() => setAppCursorRefresh(appCursorRefresh + 1)}
             appCursorRefresh={appCursorRefresh}
-          />
+          /> */}
         </Layout>
       </ThemeProvider>
     </>

diff --git a/frontend/components/blocks/Information/Information.tsx b/frontend/components/blocks/Information/Information.tsx
@@ -17,7 +17,9 @@ const InformationWrapper = styled.div`
   }
 `;
 
-const Title = styled.h1``;
+const Title = styled.h1`
+  color: var(--colour-white);
+`;
 
 const MoreInformationWrapper = styled(motion.div)``;
 
@@ -25,11 +27,14 @@ const MoreInformationInner = styled(motion.div)`
   padding-bottom: ${pxToRem(24)};
 
   a {
-    color: var(--colour-blue);
-
     &:hover {
       text-decoration: underline;
+      color: var(--colour-white);
     }
+  }
+
+  * {
+    color: var(--colour-white);
   }
 `;
 
@@ -38,6 +43,10 @@ const LinksWrapper = styled.div`
   flex-wrap: wrap;
   align-items: center;
   gap: ${pxToRem(2)};
+
+  * {
+    color: var(--colour-white);
+  }
 `;
 
 const Spacer = styled.span``;

diff --git a/frontend/components/common/Header/Header.tsx b/frontend/components/common/Header/Header.tsx
@@ -13,6 +13,7 @@ const HeaderWrapper = styled.header`
   padding: ${pxToRem(12)} ${pxToRem(16)};
   z-index: 100;
   order: 1;
+  mix-blend-mode: difference;
 `;
 
 const LogoWrapper = styled.div`
@@ -28,6 +29,7 @@ const InformationTrigger = styled.button`
   grid-column: 5 / -1;
   text-align: right;
   order: 3;
+  color: var(--colour-white);
 
   transition: all var(--transition-speed-default) var(--transition-ease);
 
@@ -37,7 +39,7 @@ const InformationTrigger = styled.button`
   }
 
   &:hover {
-    color: var(--colour-blue);
+    text-decoration: underline;
   }
 `;
 

diff --git a/frontend/components/blocks/InformationCell/InformationCell.tsx b/frontend/components/blocks/InformationCell/InformationCell.tsx
@@ -21,7 +21,7 @@ const InformationCellWrapper = styled(motion.div)<InformationCellWrapperProps>`
   pointer-events: ${(props) => (props.$hasScrolled ? "none" : "all")};
 
   &:hover {
-    color: var(--colour-black);
+    color: var(--colour-white);
   }
 `;
 
@@ -54,7 +54,7 @@ const DotsWrapper = styled.div`
   transition: all var(--transition-speed-default) var(--transition-ease);
 
   &:hover {
-    background: var(--colour-black);
+    background: var(--colour-white);
 
     svg {
       path {

diff --git a/frontend/components/blocks/FooterCell/FooterCell.tsx b/frontend/components/blocks/FooterCell/FooterCell.tsx
@@ -25,7 +25,7 @@ const WorkTrigger = styled.button`
 
   &:hover {
     background: rgba(255, 255, 255, 0.9);
-    color: var(--colour-black);
+    color: var(--colour-white);
   }
 `;
 
@@ -40,7 +40,7 @@ const StoreTrigger = styled.button`
 
   &:hover {
     background: rgba(255, 255, 255, 0.9);
-    color: var(--colour-black);
+    color: var(--colour-white);
   }
 `;
 

diff --git a/frontend/components/elements/Cursor/Cursor.tsx b/frontend/components/elements/Cursor/Cursor.tsx
@@ -39,7 +39,7 @@ const CursorFloatingButton = styled(motion.div)<StyledProps>`
   pointer-events: none;
   border-radius: 2px;
   transform: translate(-50%, -50%);
-  background: var(--colour-black);
+  background: var(--colour-white);
   color: var(--colour-white);
   opacity: ${(props) => (props.$isActive ? "1" : "0")};
   white-space: nowrap;

diff --git a/frontend/components/blocks/TaglineCell/TaglineCell.tsx b/frontend/components/blocks/TaglineCell/TaglineCell.tsx
@@ -26,10 +26,10 @@ const TaglineCellWrapper = styled(motion.div)<TaglineCellWrapperProps>`
   }
 
   &:hover {
-    color: var(--colour-black);
+    color: var(--colour-white);
 
     a {
-      color: var(--colour-black);
+      color: var(--colour-white);
     }
   }
 `;

diff --git a/frontend/components/blocks/Projects/Projects.tsx b/frontend/components/blocks/Projects/Projects.tsx
@@ -17,7 +17,7 @@ const ProjectsWrapper = styled.div`
 `;
 
 const Inner = styled(motion.div)`
-  background: var(--colour-black);
+  background: var(--colour-white);
   display: flex;
   justify-content: center;
   align-items: center;

diff --git a/frontend/styles/theme.tsx b/frontend/styles/theme.tsx
@@ -2,7 +2,7 @@ export const theme = {
   colours: {
     black: "#000",
     white: "#FFF",
-    blue: "#FF0073",
+    blue: "#000",
   },
   fonts: {
     default: "HaasGrotMedium",
